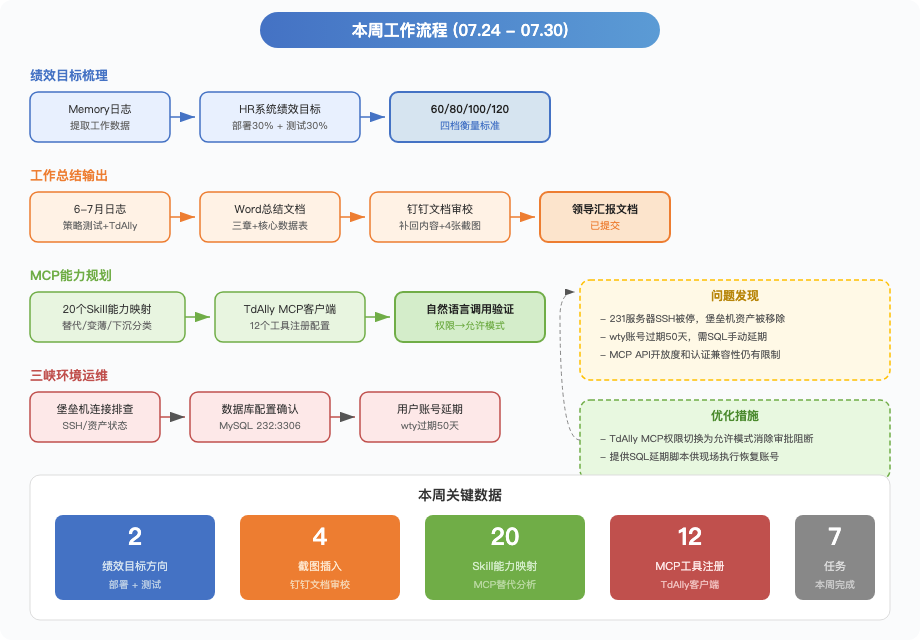
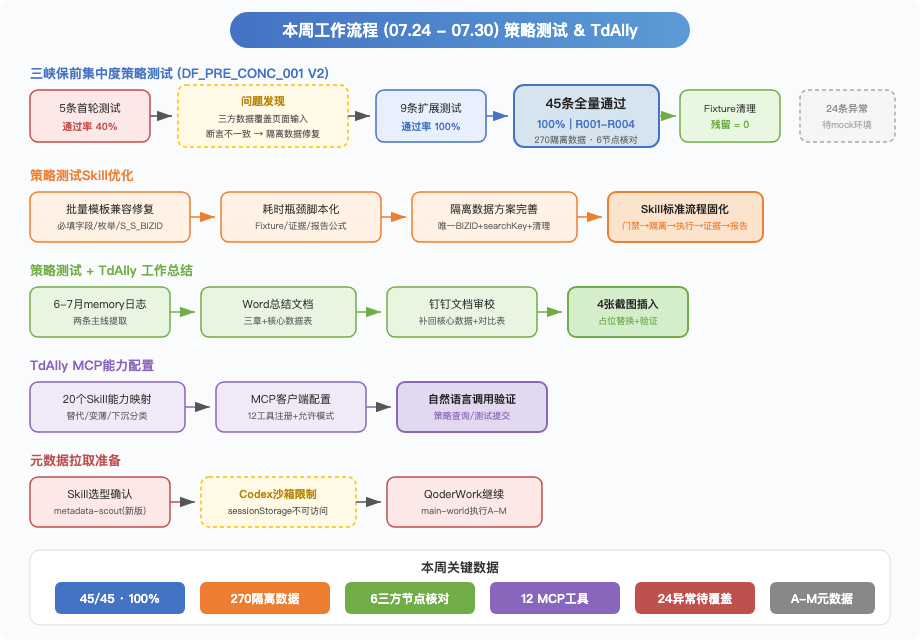
[2026-07-30] 日常 - 更新周报 07.24-07.30 聚焦策略测试与TdAlly

diff --git a/日常/2026-07-24-07-30/周报.md b/日常/2026-07-24-07-30/周报.md
@@ -1,29 +1,29 @@
 # 26年：07.24-07.30
 
-本周主要围绕年中绩效目标梳理和工作成果沉淀展开，完成了2026年度绩效目标表单填写（部署+测试两个方向），同时将策略测试与TdAlly多Agent协作两条主线的阶段性成果整理为汇报文档，供领导审阅。三峡项目环境持续运维，MCP能力规划进入配置验证阶段。
+本周策略测试和TdAlly两条主线均有实质推进。三峡保前集中度策略（DF_PRE_CONC_001 V2）在Codex环境中完成45条正常用例全通过，同步完成了策略测试与TdAlly多Agent协作的阶段性工作总结文档，供领导审阅。
 
 ![本周工作流程图](workflow.png)
 
 ## 一、本周进展
 
-🚀 **年度绩效目标填写**：完成公司HR系统2026年度绩效目标表单，两个目标各占30%权重——天策系统AI Agent自动化交付体系（部署方向，覆盖堡垒机/K8s/CICD三套Skill）和天策策略自动化测试体系（测试方向，覆盖用例生成→批量执行→多层验证→报告输出闭环）。衡量标准按60/80/100/120四档递进设计，描述内容基于实际工作数据（249条用例/96%通过率/8-10x提效/30+脚本/40+文档）。
+🚀 **三峡保前集中度策略测试45/45全通过**：在Codex环境中对三峡担保保前集中度判断策略（DF_PRE_CONC_001 V2，bizType=1，orgCode=sxdb）执行全量正常用例测试。经历5条→9条→45条三轮递进，首轮5条通过率仅40%（三方数据节点返回值覆盖页面输入导致断言不一致），修复隔离数据方案后复测100%通过。45条用例覆盖R001-R004四条规则（命中分布10/8/9/4），6个三方数据节点逐条核对，270条隔离数据测试后全量清理、6张表残留均为0。24条异常用例因需真实mock环境暂未执行。
 
-💡 **策略测试与TdAlly工作总结文档**：从6-7月memory日志中提取策略测试自动化和TdAlly多Agent协作两条主线，生成Word总结文档。文档覆盖三峡保后测试成果（249用例/96%通过率）、tiance-policy-test通用化改造三层架构、TdAlly Loop Team架构探索结论及4个P0缺陷修复。同步完成钉钉文档审校，补回被删内容并插入4张配套截图。
+💡 **策略测试与TdAlly工作总结文档**：从6-7月memory日志中提取策略测试自动化和TdAlly多Agent协作两条主线，生成Word总结文档。策略测试部分覆盖三峡保后249用例/96%通过率/8-10x提效、tiance-policy-test通用化三层架构、4个P0缺陷修复；TdAlly部分覆盖Loop Team架构探索、认证差异排查、CSP拦截需CDP等关键结论。同步完成钉钉文档审校（补回被删的核心数据表和平台对比章节）并插入4张配套截图。
 
-🔥 **三峡环境运维与MCP能力配置**：持续支撑三峡堡垒机环境运维，排查数据库连接配置（MySQL 10.57.80.232:3306）、用户账号过期问题（wty账号超期50天需延期）。天策MCP能力规划方面，完成20个tiance-* skill与MCP工具的能力映射分析，在TdAlly中配置tiance-mcp-demo客户端并完成权限设置和自然语言调用验证。
+🔥 **策略测试Skill优化与元数据拉取准备**：基于45条用例执行过程中发现的问题，对tiance-policy-test Skill进行优化——批量测试模板兼容处理（修复必填字段、枚举格式、S_S_BIZID为空的导入报错）、单笔测试耗时瓶颈脚本化（隔离Fixture创建/回查/清理、规则级证据比对、报告公式和渲染检查）。同时启动三峡项目A-M全量元数据拉取准备，确认使用tiance-metadata-scout（新版，覆盖A-M 13类、strict schema v2.0），发现Codex Browser Use与QoderWork的关键差异——Codex沙箱无法访问sessionStorage._csrf_，元数据采集需在QoderWork main-world中继续。
 
 ## 二、当前判断
 
-策略测试和部署两条主线的核心能力已初步成型，本周通过绩效目标填写进一步明确了量化指标和衡量标准。MCP能力规划从需求分析进入实际配置阶段，但距离在生产环境中替代现有Skill链还有距离，主要卡点仍在平台侧API的开放程度和认证机制的兼容性上。
+策略测试Skill的通用化能力在三峡保前策略上得到第二轮验证：从保后检查（249条/96%）到保前集中度（45条/100%），三层架构（通用引擎+运行时API发现+策略配置文件）的可复用性基本成立，核心卡点从"能不能跑通"转向"异常用例如何覆盖"——24条异常用例需要真实mock环境，普通造数无法模拟超时、接口异常等故障。TdAlly的MCP客户端已配置完成但尚未在实际测试场景中充分验证。
 
 ## 三、当前关注点
 
-- 绩效目标衡量标准的后续落地路径，特别是120分档对多项目独立交付的要求
-- TdAlly MCP客户端在实际策略查询和测试提交场景下的稳定性验证
-- 三峡环境231服务器SSH恢复进展，堡垒机资产重新录入
+- 24条异常用例的mock环境搭建方案，需在平台侧配置mock服务并验证readiness探针
+- 三峡项目A-M全量元数据拉取，需在QoderWork中继续完成（Codex沙箱限制已确认）
+- TdAlly MCP工具在实际策略查询和测试提交场景的端到端验证
 
 ## 四、下周计划
 
-- 基于绩效目标框架，梳理下半年交付工作的优先级和里程碑节点
-- 继续验证MCP工具在TdAlly中的端到端调用效果，记录可用性问题
-- 推进天策策略配置交付链（Forge Skill链）在新客户项目中的复用验证
+- 在QoderWork中完成三峡项目A-M全量元数据拉取和strict schema校验
+- 推进24条异常用例的mock环境配置，力争补齐异常测试覆盖
+- 继续验证TdAlly MCP客户端在策略测试场景下的可用性
